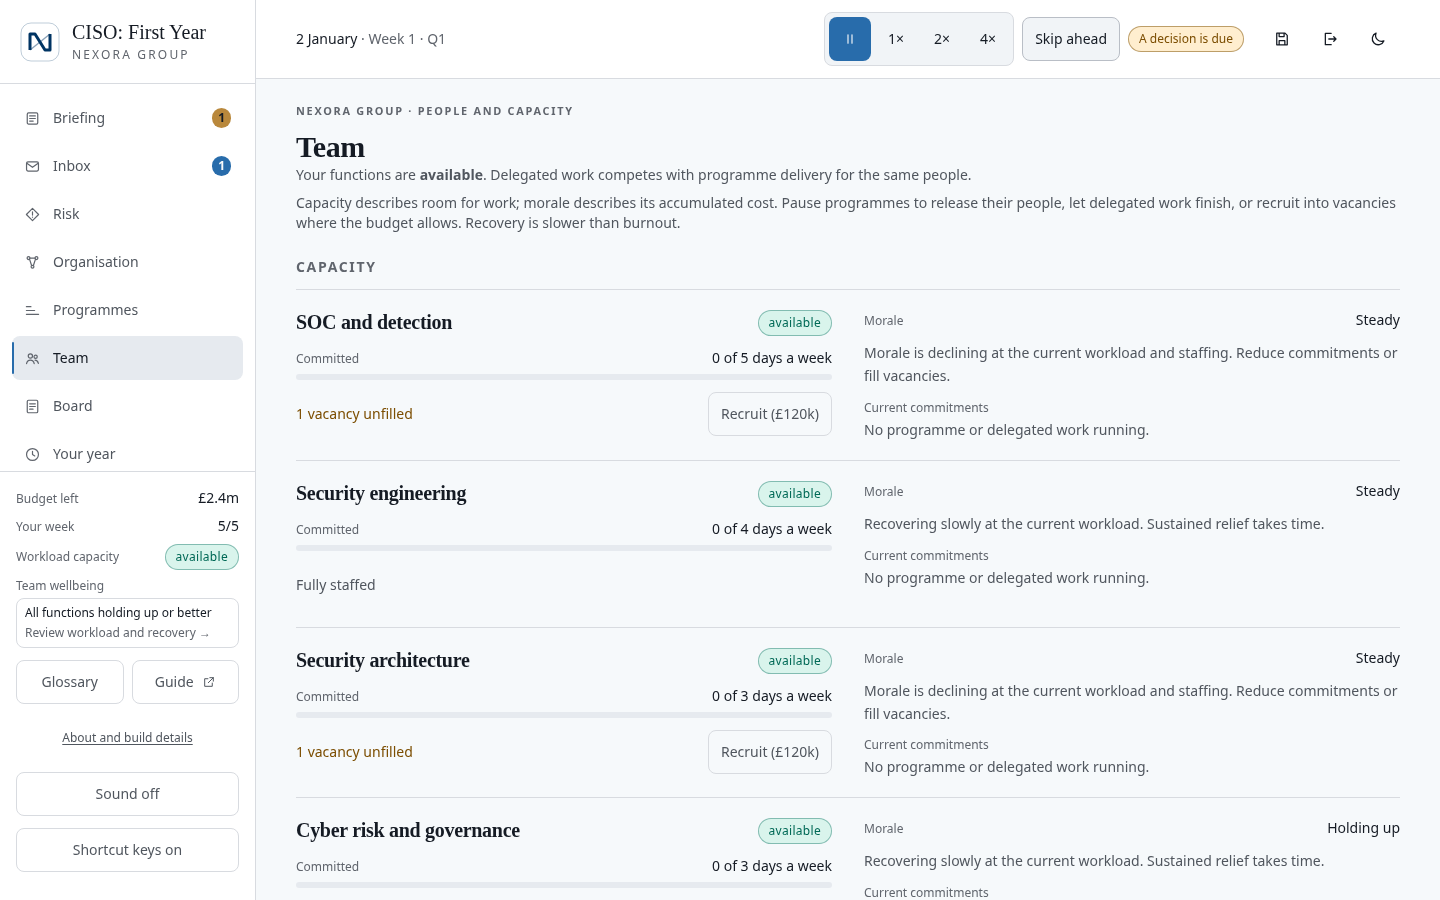
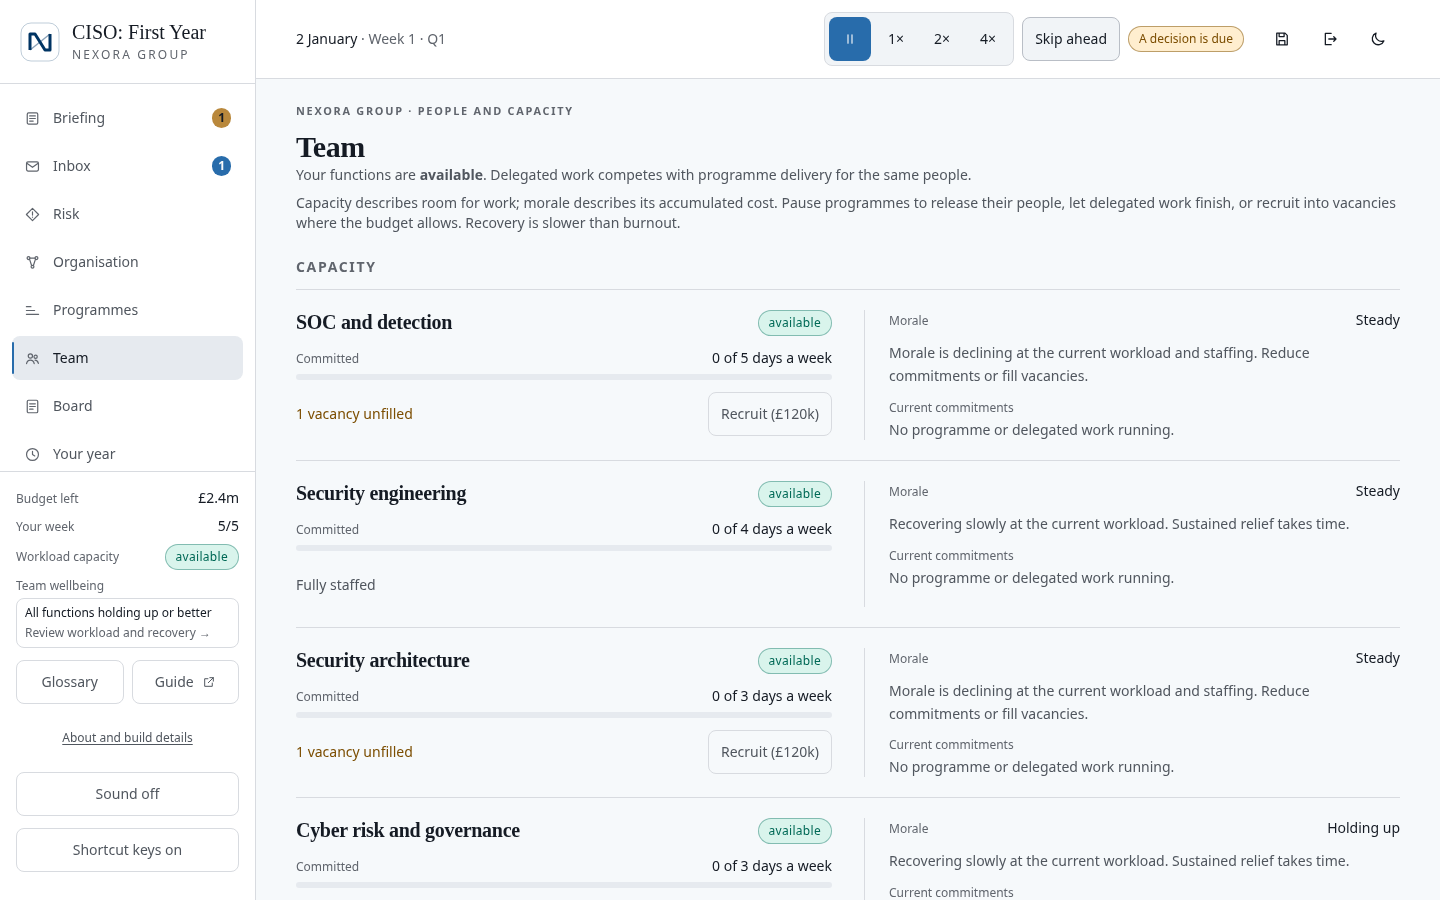
Clarify map selection and phone team dossiers

diff --git a/tests/e2e/campaign.spec.ts b/tests/e2e/campaign.spec.ts
@@ -445,7 +445,7 @@ test.describe('a first year at Nexora', () => {
       await expect(page.getByText('Nexora Pay').first()).toBeVisible({ timeout: 20_000 })
       // The outlines and colours say something only with their key beside them.
       const key = page.getByRole('list', { name: 'Key to the map' })
-      for (const entry of ['Business', 'Checked', 'Taken on trust', 'On a known attack path']) {
+      for (const entry of ['Business', 'Directly connected', 'Checked', 'Taken on trust', 'On a known attack path']) {
         await expect(key.getByText(entry, { exact: true })).toBeVisible()
       }
       // The next column is cut by the edge; the fade says the map carries on.
@@ -453,7 +453,18 @@ test.describe('a first year at Nexora', () => {
       const selected = page.locator('.react-flow__node').filter({ has: page.getByText('Nexora Pay', { exact: true }) })
       await selected.click()
       await expect(selected.getByText('Selected system', { exact: true })).toBeVisible()
-      await expect(page.locator('.react-flow__edge-path[marker-end]').first()).toBeAttached()
+      const connected = page.locator('.react-flow__node').filter({ has: page.getByText('Payment Gateway', { exact: true }) })
+      await expect(connected.getByText('Directly connected', { exact: true })).toBeVisible()
+      const unrelated = page.locator('.react-flow__node').filter({ has: page.getByText('Customer Digital Platform', { exact: true }) })
+      await expect(unrelated.getByText('Directly connected', { exact: true })).toHaveCount(0)
+      await expect(page.getByTestId('inspector-heading')).toHaveText('Nexora Pay')
+      await expect(page.getByTestId('inspector-heading').locator('..').locator('..').getByText('Selected system', { exact: true })).toBeVisible()
+      const edge = page.locator('.react-flow__edge-path[marker-end]').first()
+      await expect(edge).toBeAttached()
+      // The library otherwise raises links above cards when a node is selected.
+      const edgeLayer = await edge.evaluate((element) => Number(getComputedStyle(element.closest('svg')!).zIndex))
+      const nodeLayer = await connected.evaluate((element) => Number(getComputedStyle(element).zIndex))
+      expect(edgeLayer).toBeLessThan(nodeLayer)
     }
 
     // The list view is always available, and is all a phone shows, so the

diff --git a/src/components/organisation/OrgGraph.tsx b/src/components/organisation/OrgGraph.tsx
@@ -84,7 +84,7 @@ function OrgNodeCard({ data }: NodeProps) {
       <span aria-hidden="true" className="absolute inset-y-0 left-0 w-1.5" style={{ background: familyOf(node.type).colour }} />
       <p className="text-[0.7rem] text-ink-faint">{nodeTypeLabel(node.type)}</p>
       <p className="text-sm font-medium leading-snug">{node.label}</p>
-      {node.selected && <p className="mt-1 text-[0.7rem] font-semibold text-accent-ink">Selected system</p>}
+      {(node.selected || node.related) && <p className="mt-1 text-[0.7rem] font-semibold text-accent-ink">{node.selected ? 'Selected system' : 'Directly connected'}</p>}
       {node.onPath && <p className="mt-1 text-[0.7rem] text-band-high">on a known attack path</p>}
       {/* The outline says whether it was checked, and the key says what an
           outline means; a line of words under every dashed card repeated it
@@ -124,7 +124,10 @@ export default function OrgGraph({
       return {
         id: node.id,
         type: 'org',
-        position: { x: column * 280, y: row * 120 },
+        // Highlighted edges pass behind cards, so they cannot strike through
+        // a neighbour's name or selection label.
+        zIndex: 2,
+        position: { x: column * 280, y: row * 160 },
         data: {
           label: node.name,
           type: node.type,
@@ -213,6 +216,10 @@ export default function OrgGraph({
           Selected system
         </li>
         <li className="flex items-center gap-1.5">
+          <span aria-hidden="true" className="h-3 w-5 rounded-sm border-2 border-accent bg-surface-2" />
+          Directly connected
+        </li>
+        <li className="flex items-center gap-1.5">
           <span aria-hidden="true" className="h-3 w-5 rounded-sm border border-solid border-line-strong" />
           Checked
         </li>
@@ -235,6 +242,7 @@ export default function OrgGraph({
           nodesDraggable={false}
           nodesConnectable={false}
           edgesFocusable={false}
+          elevateEdgesOnSelect={false}
           fitView
           fitViewOptions={{ nodes: opening.length > 0 ? opening : undefined, padding: 0.15, maxZoom: 1 }}
           minZoom={0.25}

diff --git a/src/screens/team/TeamScreen.tsx b/src/screens/team/TeamScreen.tsx
@@ -55,7 +55,7 @@ export function TeamScreen() {
                     )}
                   </div>
                 </div>
-                <div className="space-y-3">
+                <div className="space-y-3 border-t border-line pt-4 md:border-l md:border-t-0 md:pl-6 md:pt-0">
                   <p className="flex flex-wrap items-baseline justify-between gap-2 text-sm">
                     <span className="text-xs font-medium text-ink-faint">Morale</span><span>{fn.moraleLabel}</span>
                   </p>
@@ -87,10 +87,10 @@ export function TeamScreen() {
                       <p className="text-sm text-ink-muted">{leader.role}</p>
                     </div>
                   </div>
-                  <dl className="grid grid-cols-3 gap-2">
+                  <dl className="leader-facts grid grid-cols-2 gap-x-4 gap-y-3 border-y border-line py-3 sm:grid-cols-3">
                     <Fact label="Workload" value={leader.workloadLabel} />
                     <Fact label="Morale" value={leader.moraleLabel} />
-                    <Fact label="Track record" value={leader.reliabilityLabel} />
+                    <Fact className="col-span-2 sm:col-span-1" label="Track record" value={leader.reliabilityLabel} />
                   </dl>
                   <Disclosure summary="Strengths and watch points">
                     <div className="grid grid-cols-1 gap-2 sm:grid-cols-2">

diff --git a/tests/e2e/art.spec.ts b/tests/e2e/art.spec.ts
@@ -32,6 +32,15 @@ test('portraits load with people rather than with the start screen', async ({ pa
   const leader = page.getByRole('heading', { name: 'Jo Mbeki', exact: true }).locator('..').locator('..').locator('img')
   await leader.scrollIntoViewIfNeeded()
   await expect.poll(() => leader.evaluate((image: HTMLImageElement) => image.naturalWidth)).toBeGreaterThan(0)
+  const facts = page.locator('.leader-facts').first()
+  const workload = await facts.getByText('Workload', { exact: true }).boundingBox()
+  const morale = await facts.getByText('Morale', { exact: true }).boundingBox()
+  const record = await facts.getByText('Track record', { exact: true }).boundingBox()
+  expect(workload!.y).toBe(morale!.y)
+  if (page.viewportSize()!.width < 640) {
+    expect(record!.y).toBeGreaterThan(workload!.y)
+    expect(record!.x).toBe(workload!.x)
+  } else expect(record!.y).toBe(workload!.y)
   // Every portrait uses the same cached atlas, including when changing screens.
   expect(new Set(portraits).size).toBe(1)
   await expectNoHorizontalScroll(page)

diff --git a/src/components/organisation/NodeInspector.tsx b/src/components/organisation/NodeInspector.tsx
@@ -51,8 +51,9 @@ export function NodeInspector({ node, onSelect }: { node: DiscoveredNodeView; on
   }
 
   return (
-    <Card className="lg:sticky lg:top-24">
+    <Card className="border-t-2 border-t-accent lg:sticky lg:top-24">
       <CardBody className="space-y-4">
+        <p className="document-kicker text-accent-ink">Selected system</p>
         {trail.length > 1 && (
           <nav aria-label="Your walk through the estate" data-testid="walk-trail">
             <ol className="flex flex-wrap items-center gap-x-1.5 gap-y-1 text-xs text-ink-faint">

diff --git a/docs/PLAYER_GUIDE.md b/docs/PLAYER_GUIDE.md
@@ -296,6 +296,9 @@ new players most often skip. Do not skip it.
 
 ### The organisation
 
+The graph labels direct neighbours **Directly connected**. The selected system
+and its inspector share an accent; arrows point towards dependencies.
+
 ![The Organisation view](images/06-organisation.png)
 
 Every system, supplier, network and data set, and what depends on what. Use
@@ -321,6 +324,9 @@ visibly sharpens as the year goes on, which is the point. The difference between
 Programmes are set out in rows: what the work is for on one side, and its cost,
 people and delivery details on the other. On a phone those columns stack.
 Work under way keeps its blockers, milestones and intervention buttons visible.
+
+Leadership dossiers keep workload and morale side by side on phones, with
+track record beneath. Function rows separate capacity from recovery guidance.
 
 ![The Team screen](images/06c-team.png)
 

diff --git a/README.md b/README.md
@@ -105,7 +105,11 @@ Decision papers separate the situation, options, costs, known effects and
 reasons. Board papers group agenda evidence, recommendations and a live
 submission summary. Inbox messages carry explicit type labels and icons.
 The organisation map outlines the selected system and its directly connected
-neighbours, with arrows pointing to dependencies. Team functions and programme
+neighbours, with arrows pointing to dependencies. Direct neighbours are labelled
+**Directly connected**, and the inspector shares the selected-system accent.
+Map rows leave room for wrapped names and status labels. Team dossiers pair
+workload and morale on phones, with track record beneath; function rows separate
+capacity from wellbeing guidance. Team functions and programme
 portfolios use quieter rows that stack on phones, keeping costs, staffing,
 morale, blockers and actions visible.
 

diff --git a/CHANGELOG.md b/CHANGELOG.md
@@ -10,6 +10,9 @@ The game as it stands after the roadmap's engineering phases
 (`docs/ROADMAP.md`, Phases 0–7). Version 0.1.0 until the owner tags a release.
 
 ### Playing
+- Map neighbours are labelled Directly connected, with more space between rows,
+  links behind cards and a matching selection cue on the inspector. Team dossiers give phone facts
+  more room and separate function capacity from wellbeing guidance.
 - Decision descriptions scroll with the paper beneath the fixed title and Close
   button. Phone incident summaries put containment and recovery side by side,
   with services on the next row, leaving more room for response controls.

diff --git a/AGENTS.md b/AGENTS.md
@@ -32,6 +32,12 @@ changes.
 
 ## Artwork
 
+- Map selection and direct neighbours carry distinct text labels; keep the
+  inspector selection cue consistent. Space rows for wrapped names and public
+  status labels without overlap, and draw highlighted edges behind node cards.
+  Team dossiers pair workload and morale on phones, with track record beneath;
+  keep capacity and recovery guidance separate.
+
 - Decision descriptions scroll with the paper, with one description ID linked
   from the dialog. Keep title, Close and footer fixed and reachable on phones.
 - At narrow widths, containment and recovery share a row; services use the full
